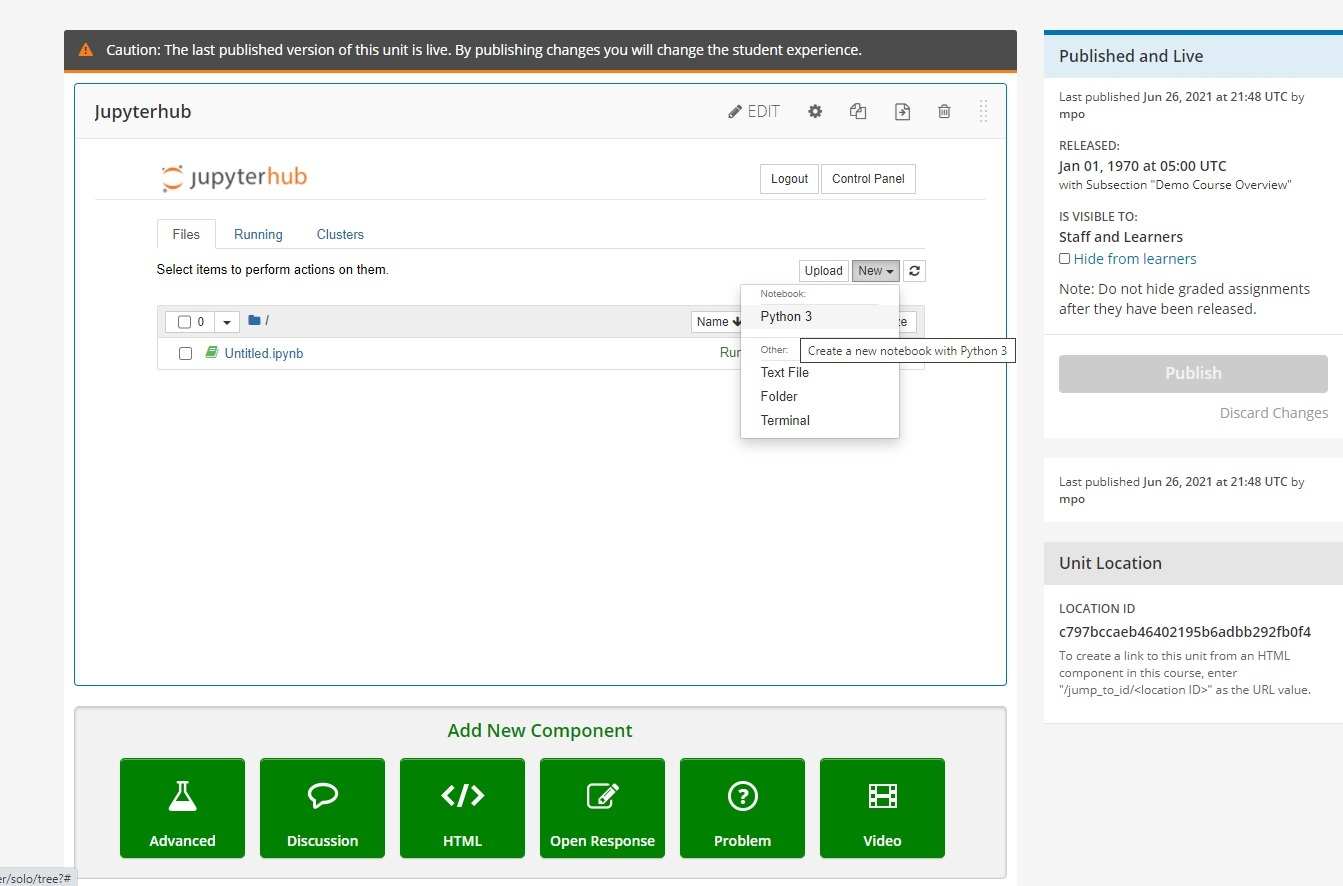
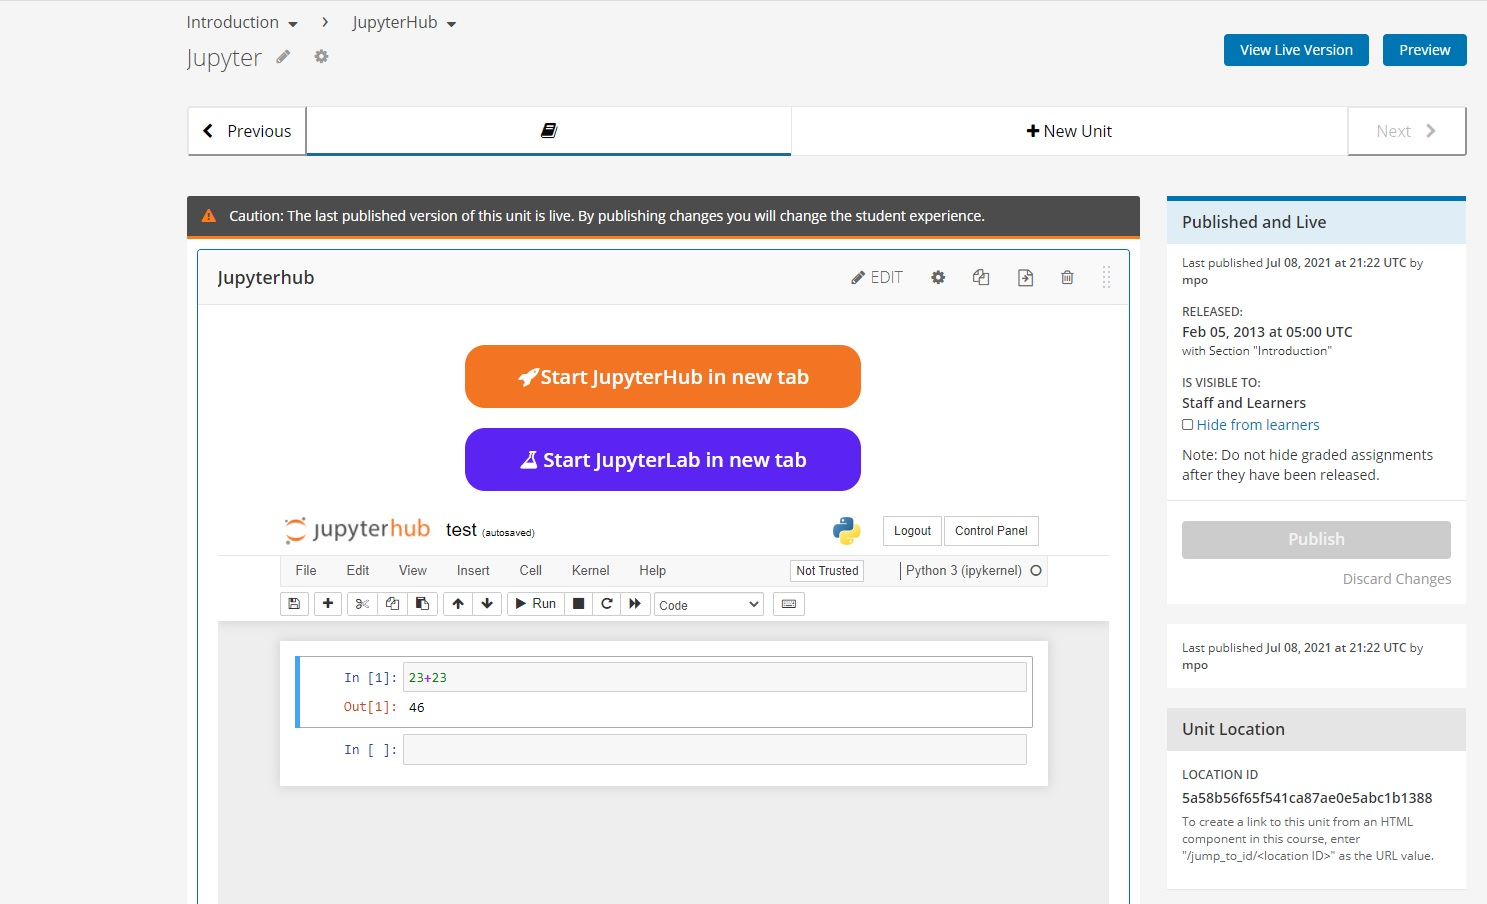
JupyterLab, admin panel added

diff --git a/jupyterhub/static/html/index.html b/jupyterhub/static/html/index.html
@@ -1,12 +1,18 @@
 <div id="jupyterhub">
-  <!-- <div class="jupyterhub-container">
+  <div class="jupyterhub-container">
     <a class="jupyterhub-button" href="{{ main_url }}" target="_blank"> <span><i class="fa fa-rocket"></i></span> {{ btn_text }}</a>
-  </div> -->
+  </div>
 
-  <div class="container">
-    <iframe src="{{ main_url }}"   frameborder="0"  height="500" scrolling="no"
-    width= "100%"></iframe>  
-    
-    </div>
+  <div class="jupyterLab-container">
+    <a class="jupyterLab-button" href="{{ jupyterLab_url }}" target="_blank"> <span><i class="fa fa-flask"></i></span> Start JupyterLab in new tab</a>
+  </div>
+ 
+
+    <div class="container">
+      <iframe src="{{ notebook_url }}"   frameborder="0"  height="800" 
+      width= "100%"></iframe>  
+      
+      </div> 
+
 </div>
 

diff --git a/jupyterhub/static/css/main.css b/jupyterhub/static/css/main.css
@@ -22,3 +22,24 @@ a.jupyterhub-button {
 a.jupyterhub-button:hover {
     opacity: 0.75;
 }
+
+a.jupyterLab-button {
+    display: block;
+    background: #5b24f3;
+    text-decoration: none;
+    border-radius: 20px;
+    color: white !important;
+    font-size: 20px;
+    font-weight: 600;
+    padding: 20px;
+    margin: 20px;
+    text-align: center;
+    transition: 0.3s;
+    width: 40%;
+    margin-left: auto;
+    margin-right: auto;
+}
+
+a.jupyterLab-button:hover {
+    opacity: 0.75;
+}

diff --git a/jupyterhub/jupyterhub.py b/jupyterhub/jupyterhub.py
@@ -31,7 +31,7 @@ class JupyterhubXBlock(XBlock, StudioEditableXBlockMixin):
         help="Button Text",
         scope=Scope.content,
         display_name="Button Text",
-        default="Start JupyterHub"
+        default="Start JupyterHub in new tab"
     )
 
   
@@ -41,10 +41,26 @@ class JupyterhubXBlock(XBlock, StudioEditableXBlockMixin):
         display_name="Jupyterhub URL",
         scope=Scope.content,
          ############### Jupyterhub URL ###############
-        default=" Replace your Jupyterhub URL here ! "
+        default= "{{main_url}}"
     )
 
-    editable_fields = ('display_name', 'btn_text', 'jupyterhub_url')
+    notebook_url = String(
+        help="JupyterNotebook URL (*.ipynb)",
+        display_name="JupyterNotebook URL",
+        scope=Scope.content,
+         ############### Notebook URL(*.ipynb) ###############
+        default="{{main_url}}/user/student/notebooks/demo.ipynb "
+    )
+
+    jupyterLab_url = String(
+        help="JupyterLab URL",
+        display_name="JupyterLab URL",
+        scope=Scope.content,
+         ############### Notebook URL(*.ipynb) ###############
+        default="{{main_url}}/user/hub/lab "
+    )
+
+    editable_fields = ('display_name', 'btn_text', 'jupyterhub_url', 'notebook_url', 'jupyterLab_url')
 
     def resource_string(self, path):
         
@@ -67,6 +83,8 @@ class JupyterhubXBlock(XBlock, StudioEditableXBlockMixin):
         context = dict(
             main_url=jupyterhub_url,
             btn_text=self.btn_text,
+            notebook_url=self.notebook_url,
+            jupyterLab_url=self.jupyterLab_url
              )
                         
         template = loader.render_django_template(
@@ -82,6 +100,15 @@ class JupyterhubXBlock(XBlock, StudioEditableXBlockMixin):
         main_url = self.main_url
        
         return main_url
+
+    def main_notebook_url(self,notebook_url):
+        notebook_url = self.notebook_url
+        return notebook_url
+
+    
+    def main_jupyterLab_url(self,jupyterLab_url):
+        jupyterLab_url = self.jupyterLab_url
+        return jupyterLab_url
 
     
     @staticmethod
